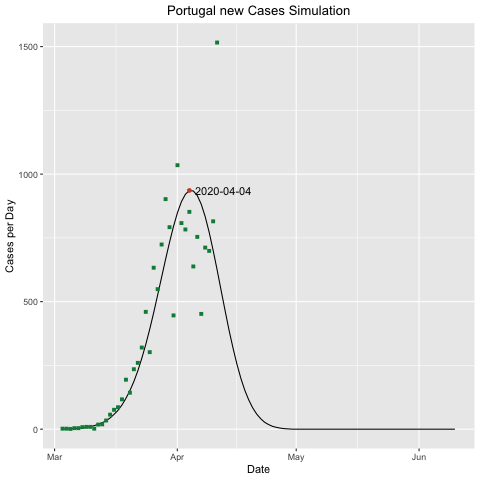
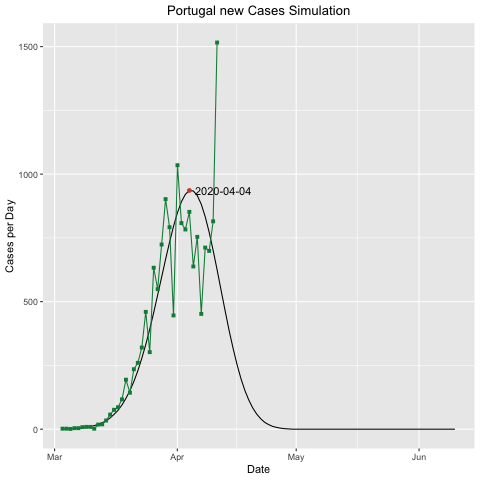
New representation of new cases

diff --git a/README.md b/README.md
@@ -93,7 +93,7 @@ Analysis of Twitter sentiments from 1000 Tweets with the hashtag #coronavirus (s
 
 ### Portugal New Cases Evolution
 
-Simulation of total cases for the next 5 days in Portugal.
+Simulation of total cases in Portugal.
 
 ![PTData_Graph_SimCases](https://github.com/VascoRibeiroPereira/Covid_19/blob/master/graphs/PTData_Graph_Simcases.png?raw=true)
 
